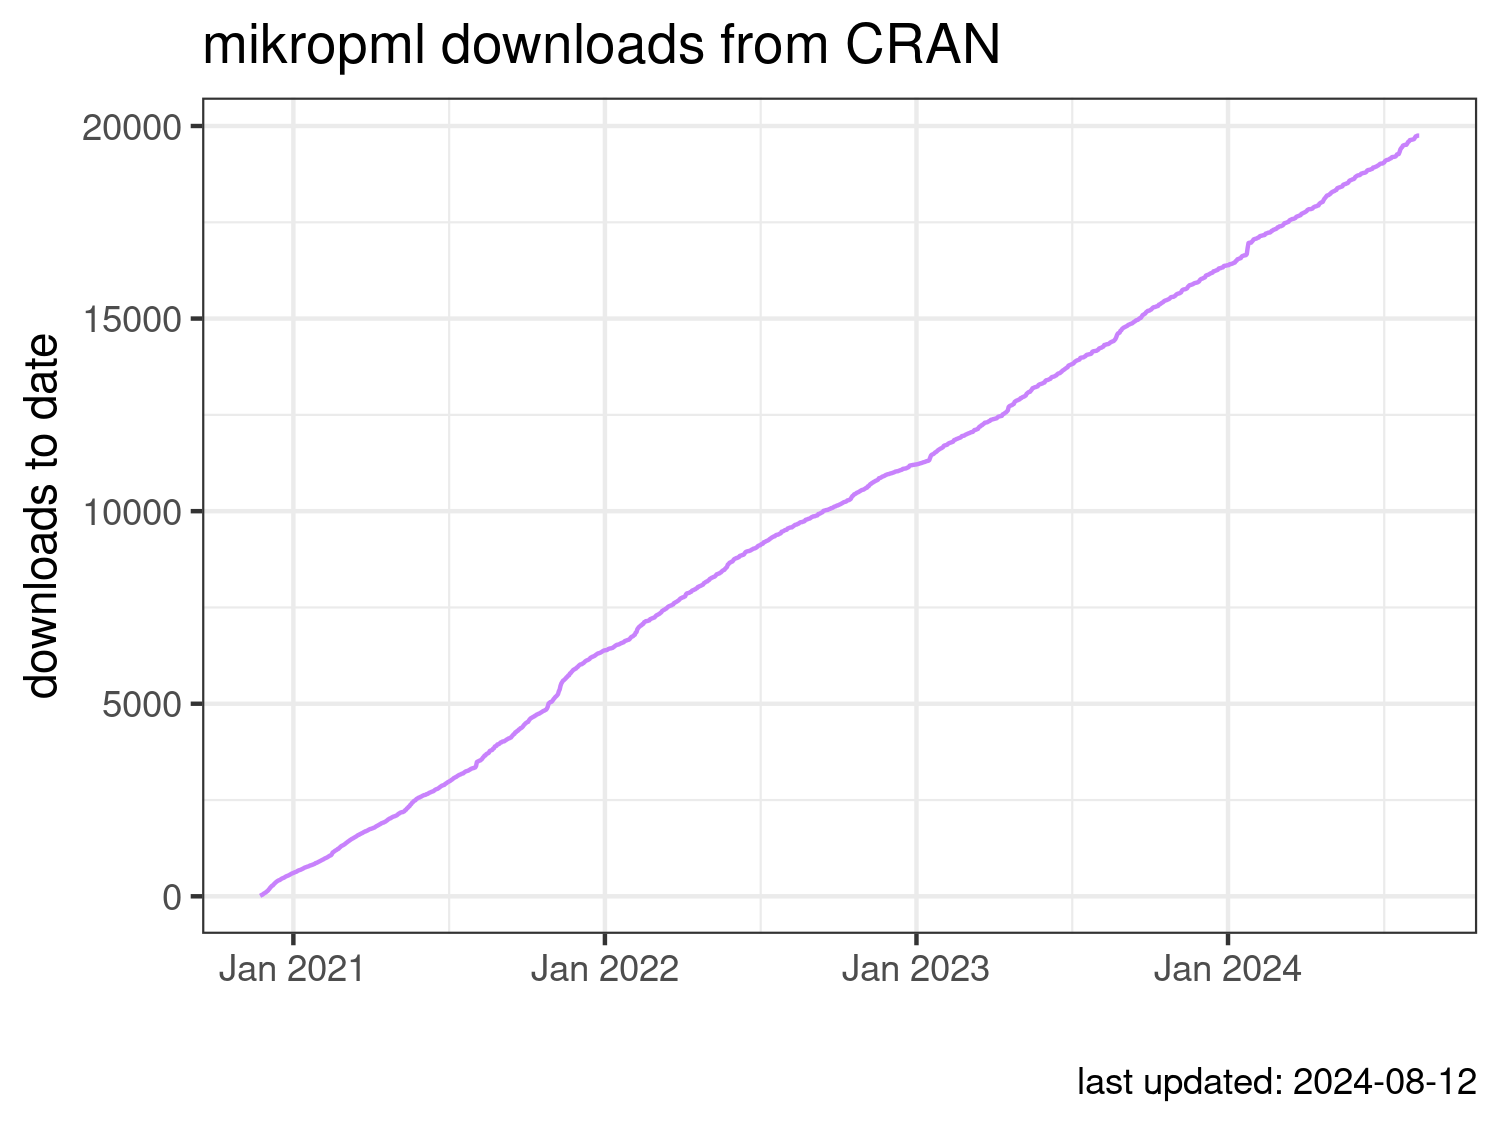
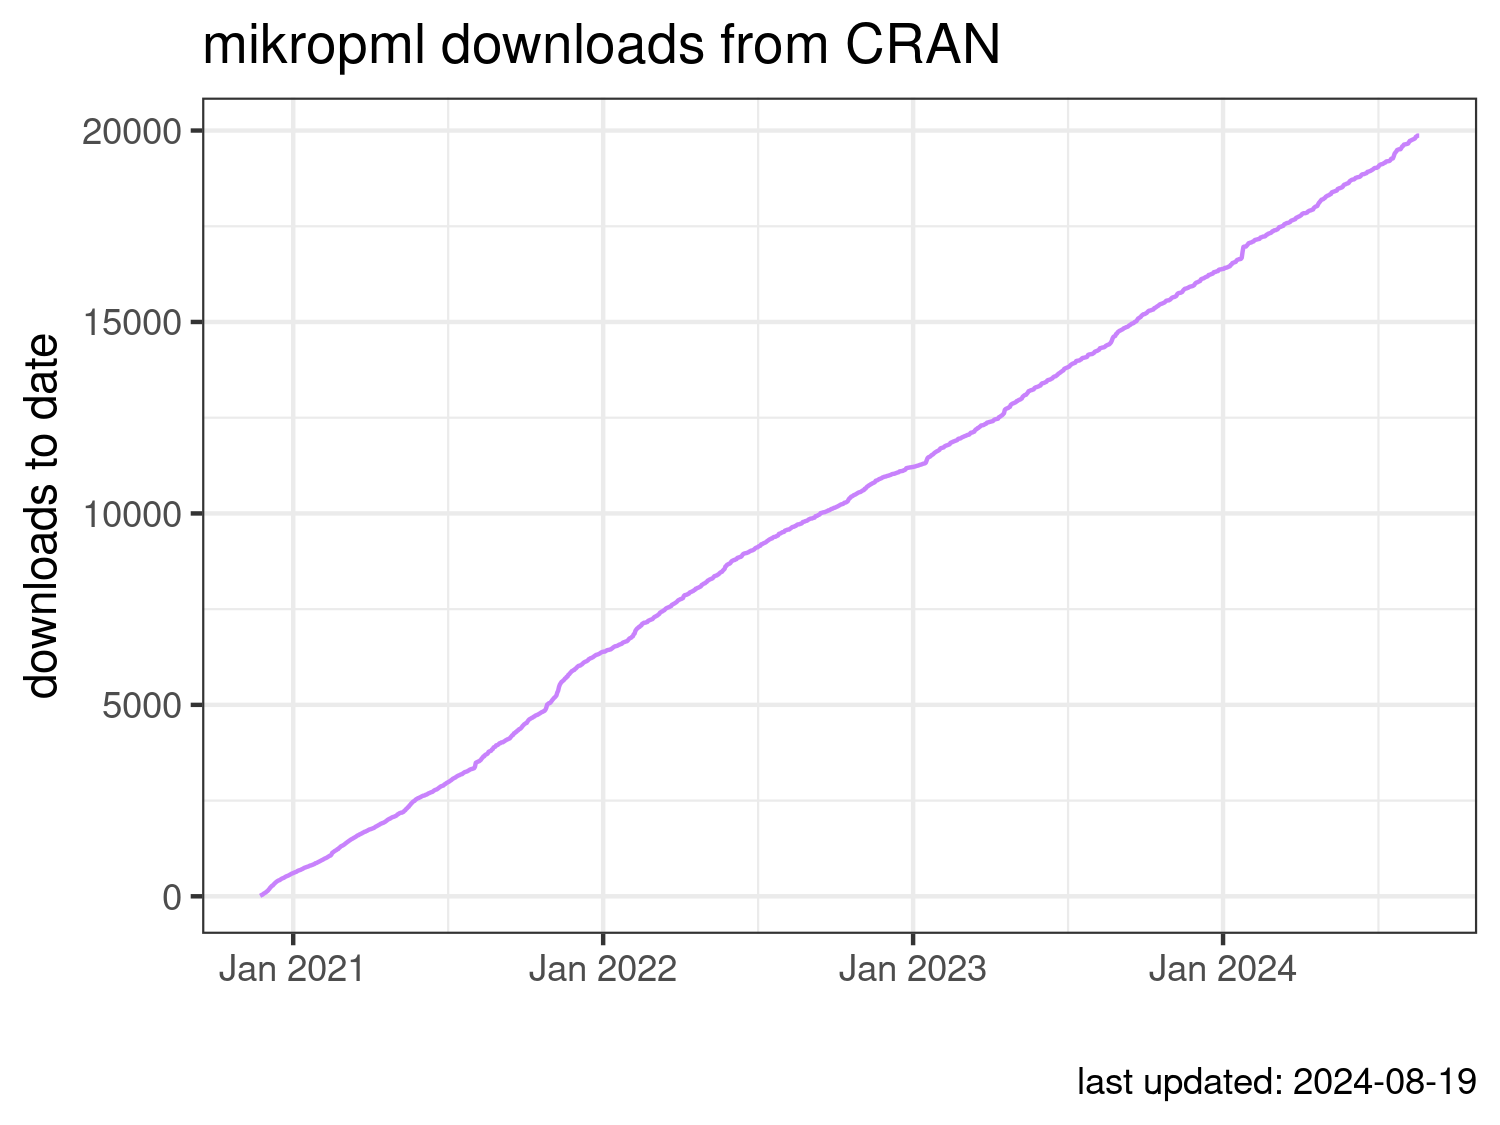
Re-build Rmarkdown files

diff --git a/README.md b/README.md
@@ -29,12 +29,12 @@ downloads <- cran_downloads(package = "mikropml",
 write_csv(downloads, here::here('data', 'downloads.csv'))
 tail(downloads)
 #>            date count  package cum_count
-#> 1354 2024-08-07    38 mikropml     19700
-#> 1355 2024-08-08    31 mikropml     19731
-#> 1356 2024-08-09     5 mikropml     19736
-#> 1357 2024-08-10    15 mikropml     19751
-#> 1358 2024-08-11     0 mikropml     19751
-#> 1359 2024-08-12     0 mikropml     19751
+#> 1361 2024-08-14    14 mikropml     19795
+#> 1362 2024-08-15    40 mikropml     19835
+#> 1363 2024-08-16    11 mikropml     19846
+#> 1364 2024-08-17    22 mikropml     19868
+#> 1365 2024-08-18     0 mikropml     19868
+#> 1366 2024-08-19     0 mikropml     19868
 ```
 
 ## Get the badge
